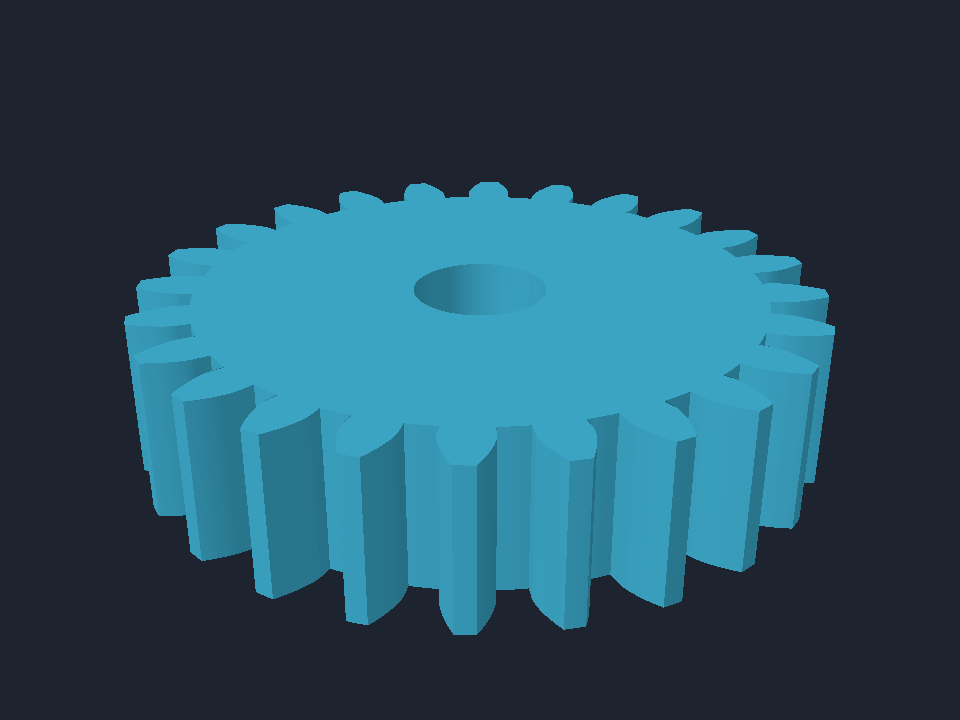
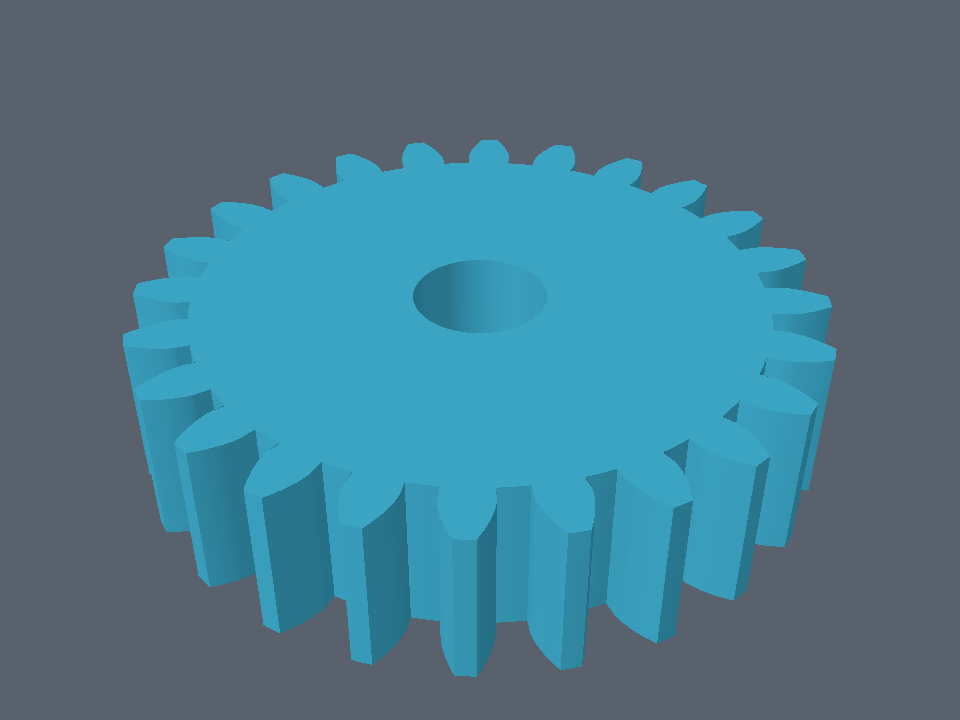
lighten the render background and raise the camera

diff --git a/proof/cmd/genexamples/main.go b/proof/cmd/genexamples/main.go
@@ -127,7 +127,7 @@ func (ex example) scene(ctx context.Context) (solidlens.Scene, error) {
 		Camera:            ex.camera(),
 		Models:            []solidlens.Model{{Mesh: mesh, Material: solidlens.Matte(ex.color)}},
 		DirectionalLights: lights(),
-		Background:        solidlens.RGB(0.012, 0.017, 0.028),
+		Background:        solidlens.RGB(0.10, 0.12, 0.15),
 	}, nil
 }
 
@@ -138,7 +138,7 @@ func (ex example) camera() solidlens.Camera {
 	radius := ex.gear.tipRadius()
 	centre := ex.gear.thickness / 2
 	reach := math.Hypot(radius, ex.gear.thickness) * 3.4
-	const elevation = 26 * math.Pi / 180
+	const elevation = 36 * math.Pi / 180
 	const azimuth = -58 * math.Pi / 180
 	horizontal := reach * math.Cos(elevation)
 	return solidlens.Camera{
